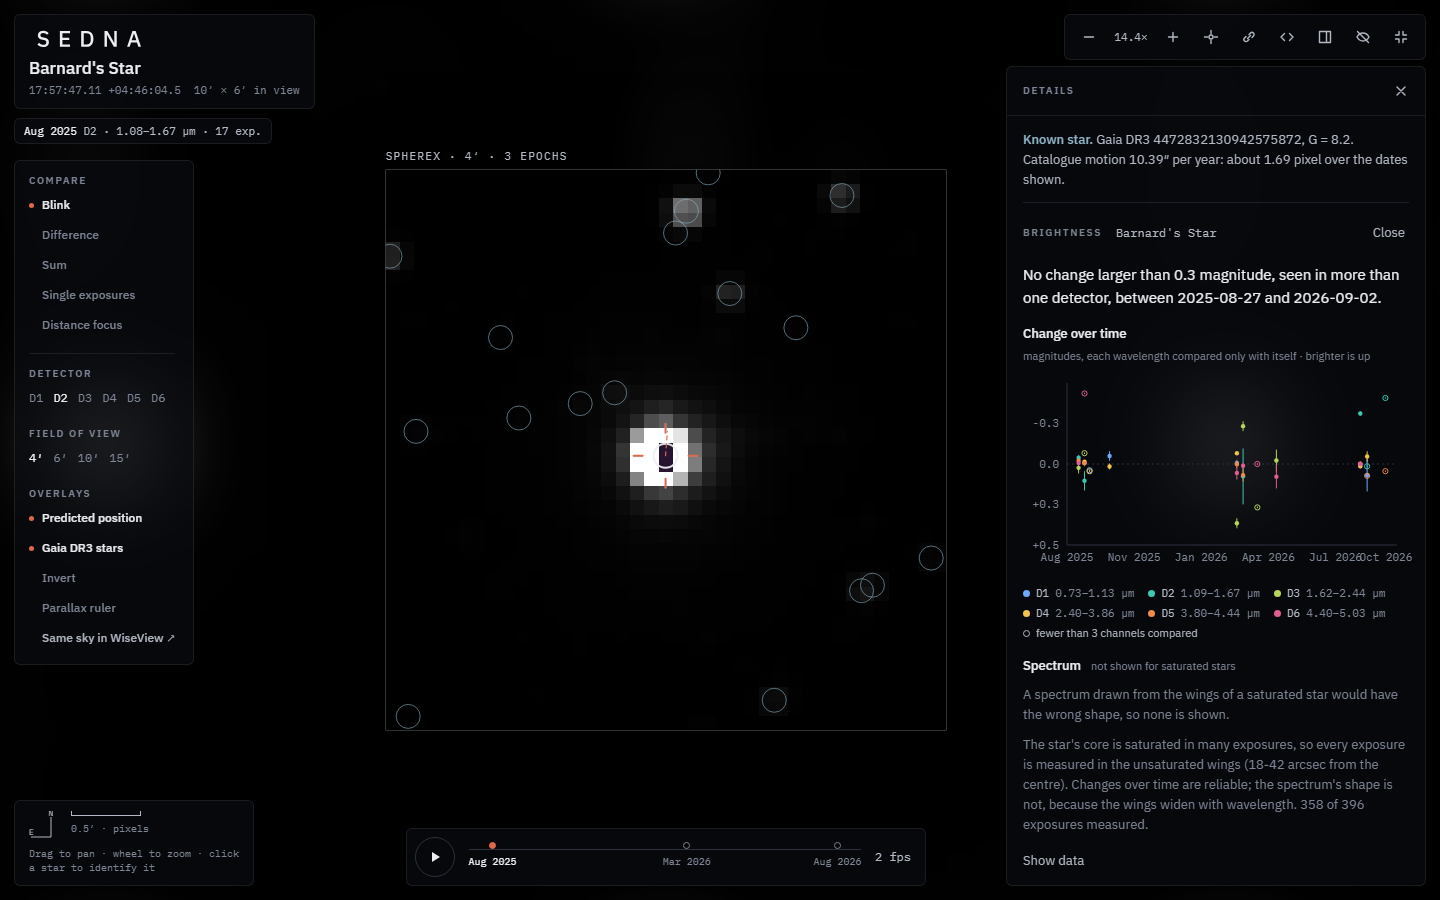
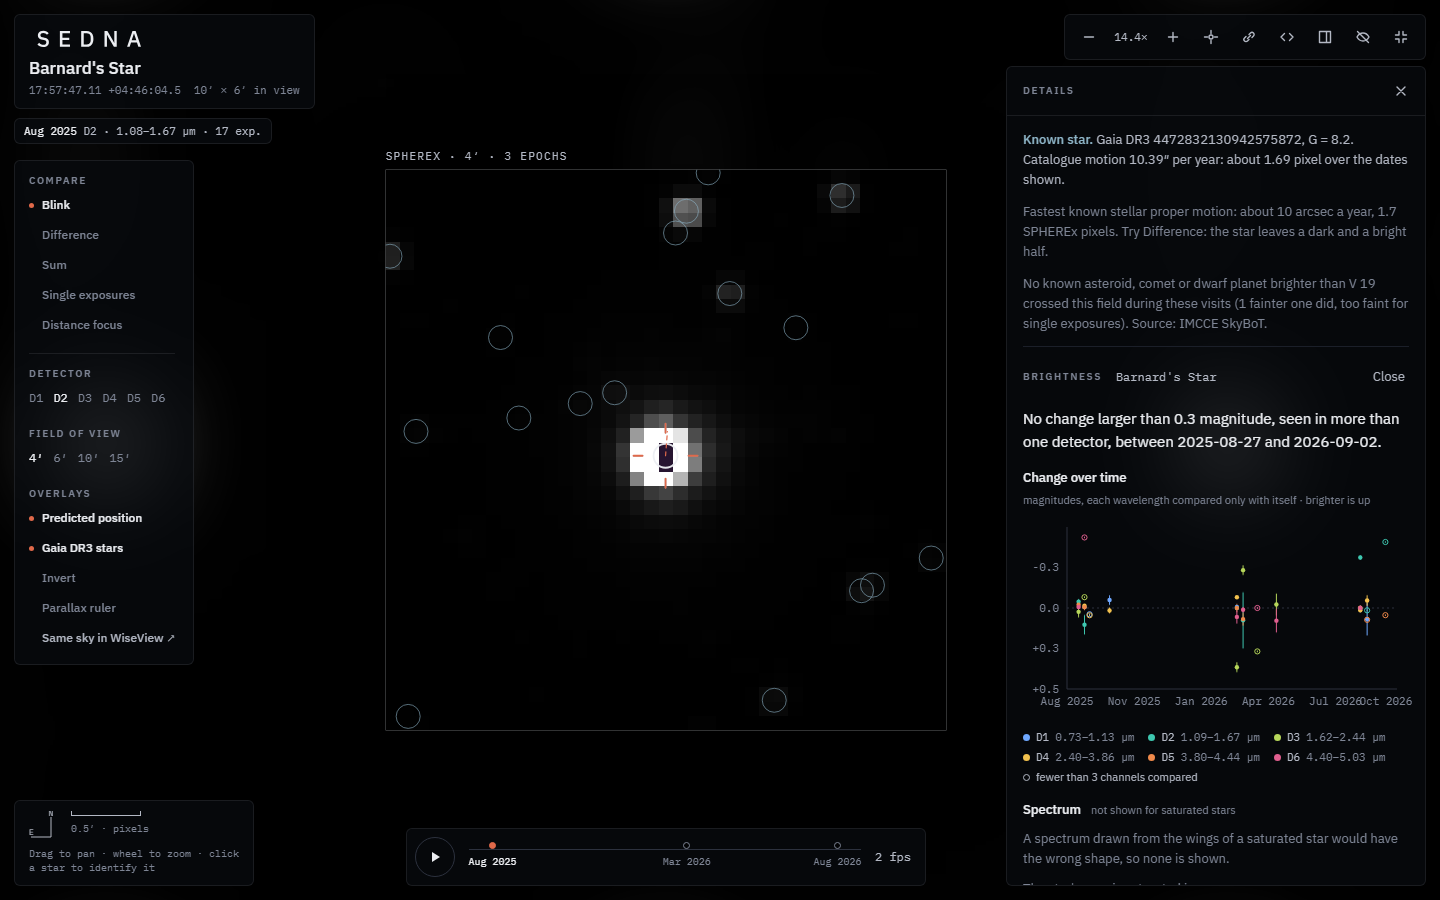
feat(ui): normal view in three columns, timeline under the sky
The normal (void) view kept growing downwards: every detail stacked under
the sky and the timeline sat in the grid's last row, so with the lens open
Play and the dates ended up far below the picture.

- Controls in one column on the left: Compare (all five modes), Detector as
  compact chips with the active range, Field of view, Overlays and WiseView.
- The sky in the centre with its caption, readout and, right under it, the
  timeline. Sky and timeline fit one screen: 610 px at 1440x900, 510 px at
  1280x800, timeline ending at 839 and 739 px even with the lens open.
- "About this field" on the right, scrolling on its own: the mission, the
  Gaia verdict of a click, the measure buttons, the target's note and the
  known-mover note first, then the ruler and the brightness lens. The same
  element fills the full-screen drawer.
- 821-1180 px: details under the sky; phones: sky, timeline, controls,
  then details. Header actions on one line; "Copy embed code" only on wide
  screens. Panel modes (single exposures, distance focus, Sedna) stay
  centred.

Checked: no horizontal overflow at 390, 768, 1024, 1280 and 1440 px; the
offline demo check passes.

Changed region(s): [[0.6875, 0.2178, 0.9688, 0.56], [0.7188, 0.5911, 0.9688, 0.9644], [0.9062, 0.5911, 0.9688, 0.6222]]

diff --git a/web/src/App.tsx b/web/src/App.tsx
@@ -547,10 +547,8 @@ export default function App() {
   // what the void view shows around the sky; the sky view shows the same elements in its drawer
   const detailsEl = !view ? null : (
     <>
+            {/* short context first: the mission, what was clicked, what can be measured, what is known */}
             {coach}
-            {view.ruler && rulerPair && (
-              <RulerPanel state={ruler} fromLabel={dateLabel(rulerPair.from.start)} toLabel={dateLabel(rulerPair.to.start)} onFocus={() => update({ mode: "film" }, true)} />
-            )}
             {picked && (
               <p className="verdict" role="status">
                 <strong>Known star.</strong> Gaia DR3 {picked.id}, G = {picked.g?.toFixed(1) ?? "?"}. Catalogue motion {(Math.hypot(picked.pmRa ?? 0, picked.pmDec ?? 0) / 1000).toFixed(2)}″ per year:
@@ -571,13 +569,17 @@ export default function App() {
                 </button>
               </div>
             )}
+            {target && <p className="note-line target-note">{target.note}</p>}
+            <MoversNote state={movers} onShow={(m) => update({ mode: "film", fv: m.visit, ft: m.closestMjd }, true)} />
+            {/* then the larger panels */}
+            {view.ruler && rulerPair && (
+              <RulerPanel state={ruler} fromLabel={dateLabel(rulerPair.from.start)} toLabel={dateLabel(rulerPair.to.start)} onFocus={() => update({ mode: "film" }, true)} />
+            )}
             {lens && (
               <Suspense fallback={<p className="note-line" role="status">Opening the brightness lens…</p>}>
                 <BrightnessPanel ra={lens.ra} dec={lens.dec} target={lens.target} label={lens.label} onClose={() => update({ bp: null }, true)} />
               </Suspense>
             )}
-            <MoversNote state={movers} onShow={(m) => update({ mode: "film", fv: m.visit, ft: m.closestMjd }, true)} />
-            {target && <p className="note-line">{target.note}</p>}
     </>
   );
   const modePanelEl = !view ? null : (
@@ -719,7 +721,7 @@ export default function App() {
               <button type="button" className="text" onClick={() => copy("link", location.href)}>
                 {copied === "link" ? "Copied" : "Copy link"}
               </button>
-              <button type="button" className="text" onClick={() => copy("embed", embedCode())} title="An iframe of this view for another web page">
+              <button type="button" className="text wide-only" onClick={() => copy("embed", embedCode())} title="An iframe of this view for another web page">
                 {copied === "embed" ? "Copied" : "Copy embed code"}
               </button>
             </>
@@ -769,8 +771,9 @@ export default function App() {
       )}
 
       {view && (
-        <main className="viewer">
-          <aside className="rail left">
+        <main className={`viewer${modePanelEl ? " panel-mode" : ""}`}>
+          {/* every control in one column, beside the sky */}
+          <aside className="rail left" aria-label="Controls">
             <div className="group" role="group" aria-label="Compare mode">
               <span className="eyebrow">Compare</span>
               {MODES.map((m) => (
@@ -780,17 +783,47 @@ export default function App() {
                 </button>
               ))}
             </div>
-            {view.mode !== "focus" && view.mode !== "follow" && (
-            <div className="group" role="group" aria-label="Field of view">
-              <span className="eyebrow">Field of view</span>
-              <div className="chips">
-                {FOVS.map((f) => (
-                  <button key={f} type="button" className="opt mono" aria-pressed={view.fov === f} onClick={() => update({ fov: f }, true)} title={f > 6 ? "Larger fields take longer to load" : undefined}>
-                    {f}′
-                  </button>
-                ))}
+            {!modePanelEl && (
+              <div className="group" role="group" aria-label="Detector">
+                <span className="eyebrow">Detector</span>
+                <div className="chips det-chips">
+                  {DETECTORS.map((d) => (
+                    <button key={d.id} type="button" className="opt mono" aria-pressed={view.det === d.id} onClick={() => update({ det: d.id })} title={d.range} aria-label={`Detector ${d.id}, ${d.range}`}>
+                      D{d.id}
+                    </button>
+                  ))}
+                </div>
+                <span className="sub mono det-range">{DETECTORS[view.det - 1].range}</span>
               </div>
-            </div>
+            )}
+            {view.mode !== "focus" && view.mode !== "follow" && (
+              <div className="group" role="group" aria-label="Field of view">
+                <span className="eyebrow">Field of view</span>
+                <div className="chips">
+                  {FOVS.map((f) => (
+                    <button key={f} type="button" className="opt mono" aria-pressed={view.fov === f} onClick={() => update({ fov: f }, true)} title={f > 6 ? "Larger fields take longer to load" : undefined}>
+                      {f}′
+                    </button>
+                  ))}
+                </div>
+              </div>
+            )}
+            {!modePanelEl && (
+              <div className="group" role="group" aria-label="Overlays and display">
+                <span className="eyebrow">Overlays</span>
+                <button type="button" className="opt" aria-pressed={view.gaia} onClick={() => update({ gaia: !view.gaia })}>
+                  <span className="dot" />Gaia DR3 stars
+                </button>
+                <button type="button" className="opt" aria-pressed={view.invert} onClick={() => update({ invert: !view.invert })}>
+                  <span className="dot" />Invert
+                </button>
+                <button type="button" className="opt" aria-pressed={view.ruler} onClick={() => update({ ruler: !view.ruler }, true)} title="How far a body here would move between two visits">
+                  <span className="dot" />Parallax ruler
+                </button>
+                <a className="opt link" href={`http://byw.tools/wiseview#ra=${view.ra.toFixed(5)}&dec=${view.dec.toFixed(5)}&size=${Math.round(view.fov * 60)}&band=2`} target="_blank" rel="noopener">
+                  Same sky in WiseView ↗<span className="sr"> (opens in new tab)</span>
+                </a>
+              </div>
             )}
           </aside>
 
@@ -799,47 +832,26 @@ export default function App() {
             {captionEl}
             {stageEl}
             <div className="readout mono">
-              <span>{readout ?? "Point at the sky to read its position and value"}</span>
+              <span>{readout ?? "Point at the sky to read its position and value; click to identify"}</span>
               <span>North up, east left · asinh, one stretch for all dates</span>
             </div>
-            {detailsEl}
+            {/* the timeline stays right under the sky, whatever the details below or beside it hold */}
+            <footer className="timeline">
+              {playbackEl}
+              <button type="button" className="speed mono" onClick={() => update({ fps: view.fps === 1 ? 2 : view.fps === 2 ? 4 : 1 })} aria-label="Blink speed">
+                {view.fps} fps
+              </button>
+            </footer>
           </section>
           )}
 
-          <aside className="rail right" hidden={view.mode === "focus" || view.mode === "film" || view.mode === "follow"}>
-            <div className="group" role="group" aria-label="Detector">
-              <span className="eyebrow">Detector</span>
-              {DETECTORS.map((d) => (
-                <button key={d.id} type="button" className="opt" aria-pressed={view.det === d.id} onClick={() => update({ det: d.id })}>
-                  <span className="dot" />
-                  <span className="mono">D{d.id}</span>
-                  <span className="sub mono">{d.range}</span>
-                </button>
-              ))}
-            </div>
-            <div className="group" role="group" aria-label="Overlays and display">
-              <span className="eyebrow">Overlays</span>
-              <button type="button" className="opt" aria-pressed={view.gaia} onClick={() => update({ gaia: !view.gaia })}>
-                <span className="dot" />Gaia DR3 stars
-              </button>
-              <button type="button" className="opt" aria-pressed={view.invert} onClick={() => update({ invert: !view.invert })}>
-                <span className="dot" />Invert
-              </button>
-              <button type="button" className="opt" aria-pressed={view.ruler} onClick={() => update({ ruler: !view.ruler }, true)} title="How far a body here would move between two visits">
-                <span className="dot" />Parallax ruler
-              </button>
-              <a className="opt link" href={`http://byw.tools/wiseview#ra=${view.ra.toFixed(5)}&dec=${view.dec.toFixed(5)}&size=${Math.round(view.fov * 60)}&band=2`} target="_blank" rel="noopener">
-                Same sky in WiseView ↗<span className="sr"> (opens in new tab)</span>
-              </a>
-            </div>
-          </aside>
-
-          <footer className="timeline" hidden={view.mode === "focus" || view.mode === "film" || view.mode === "follow"}>
-            {playbackEl}
-            <button type="button" className="speed mono" onClick={() => update({ fps: view.fps === 1 ? 2 : view.fps === 2 ? 4 : 1 })} aria-label="Blink speed">
-              {view.fps} fps
-            </button>
-          </footer>
+          {/* what is known about this field, beside the sky (below it on narrower screens) */}
+          {!modePanelEl && (
+            <aside className="details" aria-label="About this field">
+              <span className="eyebrow">About this field</span>
+              {detailsEl}
+            </aside>
+          )}
         </main>
       )}
 

diff --git a/web/src/styles.css b/web/src/styles.css
@@ -47,7 +47,9 @@ a { color: inherit; }
 .target .help.error { color: var(--warn); font-family: var(--font-ui); }
 .primary { background: var(--red); color: #fff; font-weight: 500; font-size: 13px; padding: 0 14px; min-height: 36px; border-radius: 4px; }
 .primary:hover { background: #d0553a; }
-.top-actions { justify-self: end; }
+.top-actions { justify-self: end; display: flex; align-items: center; justify-content: flex-end; flex-wrap: wrap; gap: 0 16px; }
+.top-actions .text { min-height: 40px; display: inline-flex; align-items: center; }
+.target-note { color: var(--muted-strong); }
 .text { font-size: 13px; color: var(--muted-strong); min-height: 40px; padding: 0 4px; }
 .text:hover { color: var(--fg); }
 
@@ -60,13 +62,29 @@ a { color: inherit; }
 .examples strong { font-weight: 500; }
 .examples span { color: var(--muted); }
 
-.viewer { --stage: min(86vw, 62vh, 620px); display: grid; grid-template-columns: minmax(120px, 1fr) auto minmax(120px, 1fr); grid-template-rows: 1fr auto; gap: 18px 28px; align-items: start; min-height: 0; }
-/* rails stay level with the stage when the lens or notes make the centre column taller */
-.rail { display: grid; gap: 22px; align-content: start; }
-.rail.left { margin-top: max(0px, calc(var(--stage) / 2 - 109px)); }
-.rail.right { margin-top: max(0px, calc(var(--stage) / 2 - 163px)); }
-.rail.left { justify-items: end; }
+/* three columns: controls | the sky with its timeline | what is known about the field.
+   The sky and its timeline always fit on one screen; the details column scrolls on its own. */
+.viewer {
+  --stage: min(620px, calc(100vh - 290px), calc(100vw - 740px));
+  display: grid;
+  grid-template-columns: minmax(170px, 220px) auto minmax(300px, 380px);
+  justify-content: center;
+  gap: 18px 36px;
+  align-items: start;
+  min-height: 0;
+}
+.viewer.panel-mode { --stage: min(620px, 62vh, calc(100vw - 560px)); grid-template-columns: minmax(170px, 220px) minmax(0, 680px) minmax(0, 220px); }
+.rail { display: grid; gap: 20px; align-content: start; }
+.rail.left { justify-items: end; padding-top: 26px; position: sticky; top: 12px; }
 .rail.left .group { justify-items: end; }
+.det-chips { display: grid; grid-template-columns: repeat(3, auto); gap: 0 12px; justify-content: end; }
+.det-range { font-size: 11px; line-height: 14px; color: var(--muted); }
+.details { display: grid; gap: 14px; align-content: start; padding-top: 26px; position: sticky; top: 12px; max-height: calc(100vh - 140px); overflow-y: auto; overscroll-behavior: contain; padding-right: 6px; }
+.details > .eyebrow { margin-bottom: -4px; }
+.details .verdict, .details .note-line, .details .measure, .details .movers, .details .lens, .details .coach { max-width: none; width: 100%; }
+.details .lens { padding-top: 10px; }
+.measure .text { padding-left: 0; text-align: left; min-height: 30px; }
+.details .measure + .measure { margin-top: -10px; }
 .group { display: grid; gap: 4px; }
 .opt { display: inline-flex; align-items: center; gap: 8px; min-height: 32px; font-size: 13px; line-height: 18px; font-weight: 500; color: var(--muted); text-decoration: none; }
 .opt:hover { color: var(--muted-strong); }
@@ -271,7 +289,7 @@ a { color: inherit; }
 .legend { display: flex; align-items: center; gap: 8px; margin: 0; font-size: 12px; line-height: 17px; color: var(--muted-strong); }
 .legend svg { flex: none; }
 
-.timeline { grid-column: 1 / -1; justify-self: center; width: min(760px, 100%); display: grid; grid-template-columns: auto 1fr auto; align-items: center; gap: 18px; }
+.timeline { width: 100%; display: grid; grid-template-columns: auto 1fr auto; align-items: center; gap: 18px; margin-top: 2px; }
 .play { width: 44px; height: 44px; border-radius: 50%; border: 1px solid var(--line-strong); display: grid; place-items: center; }
 .play:hover:not(:disabled) { border-color: var(--muted); }
 .track { position: relative; height: 44px; }
@@ -311,18 +329,25 @@ a { color: inherit; }
 .chip.uncertain { color: var(--warn); border-color: var(--warn); }
 .focus-result .chips { align-items: center; }
 
+@media (min-width: 821px) and (max-width: 1180px) {
+  .viewer { --stage: min(620px, calc(100vh - 290px), calc(100vw - 330px)); grid-template-columns: minmax(150px, 200px) auto; }
+  .viewer.panel-mode { grid-template-columns: minmax(150px, 200px) minmax(0, 680px); }
+  .details { grid-column: 2; position: static; max-height: none; overflow: visible; padding-top: 0; width: var(--stage); }
+}
+
 @media (max-width: 820px) {
   .focus-controls { grid-template-columns: 1fr; gap: 10px; }
   .top { grid-template-columns: 1fr auto; }
   .target { grid-column: 1 / -1; grid-row: 2; grid-template-columns: 1fr auto; }
-  .viewer { grid-template-columns: 1fr; gap: 14px; }
+  .viewer, .viewer.panel-mode { --stage: min(100%, 60vh); grid-template-columns: 1fr; gap: 14px; }
   .stage-wrap { order: 1; }
-  .rail { order: 2; justify-items: start !important; grid-auto-flow: row; gap: 12px; margin-top: 0 !important; }
+  .details { order: 3; position: static; max-height: none; overflow: visible; padding-top: 10px; border-top: 1px solid var(--line); }
+  .rail { order: 2; justify-items: start !important; grid-auto-flow: row; gap: 12px; margin-top: 0 !important; padding-top: 0; position: static; }
+  .det-chips { display: flex; justify-content: start; }
   .rail.left .group, .rail .group { justify-items: start; display: flex; flex-wrap: wrap; align-items: center; gap: 2px 14px; }
   .rail.left .opt { flex-direction: row; }
   .rail .eyebrow { width: 100%; }
   .opt .sub { display: none; }
-  .timeline { order: 3; }
   .stage { width: min(100%, 60vh); }
   .examples button { grid-template-columns: 1fr; gap: 2px; }
 }
